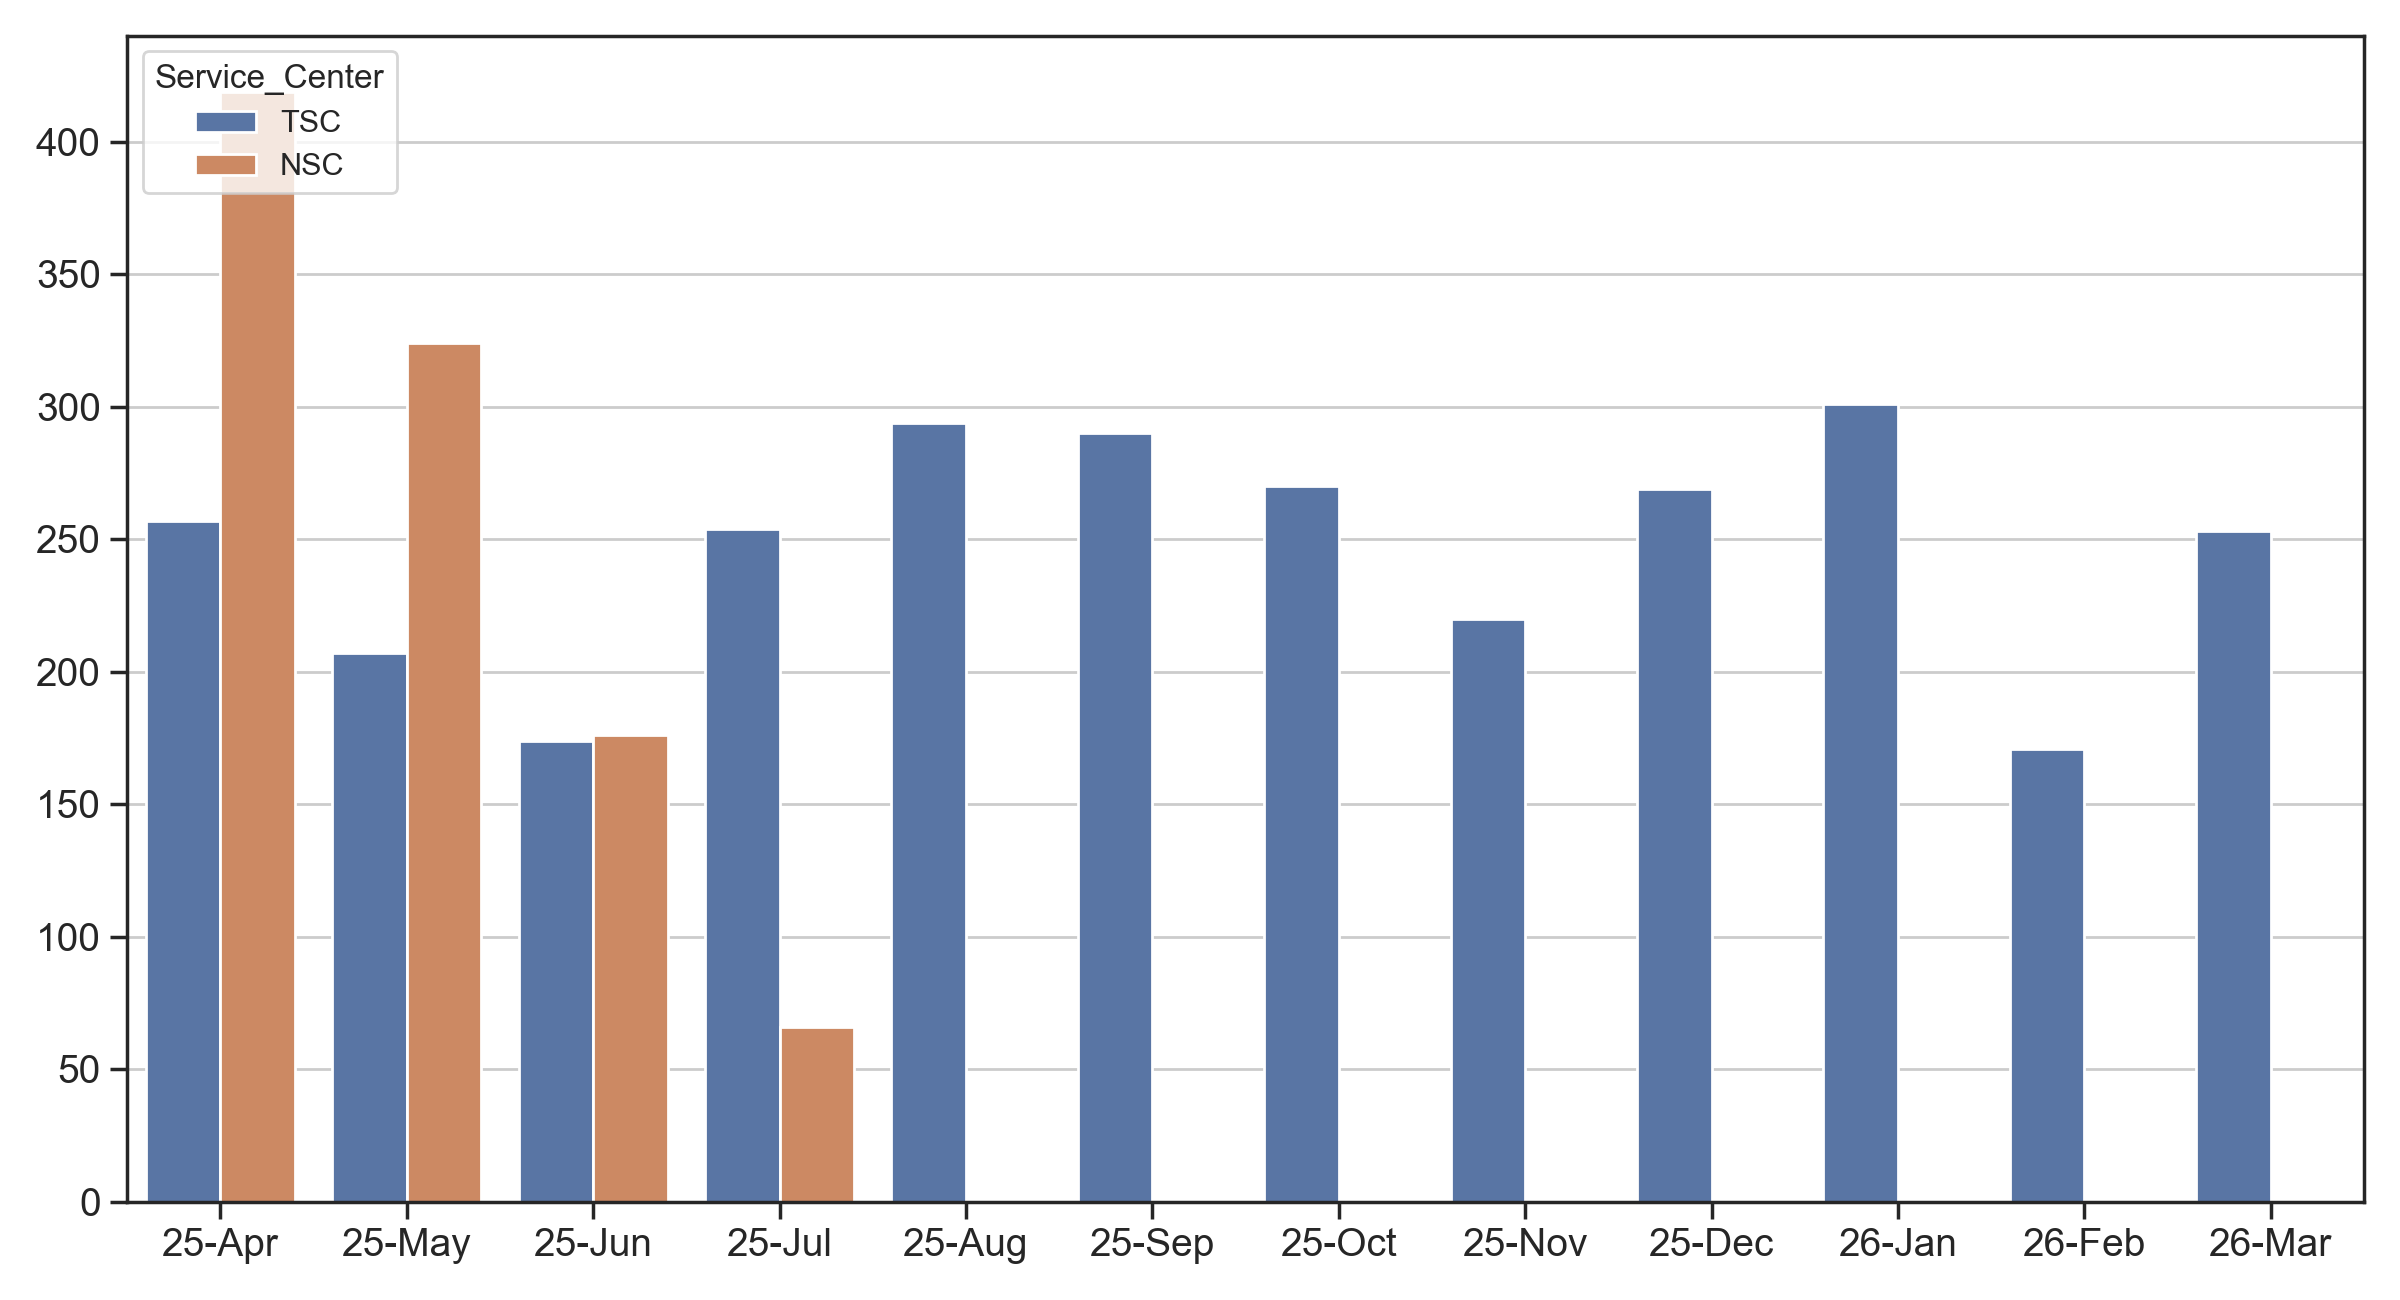
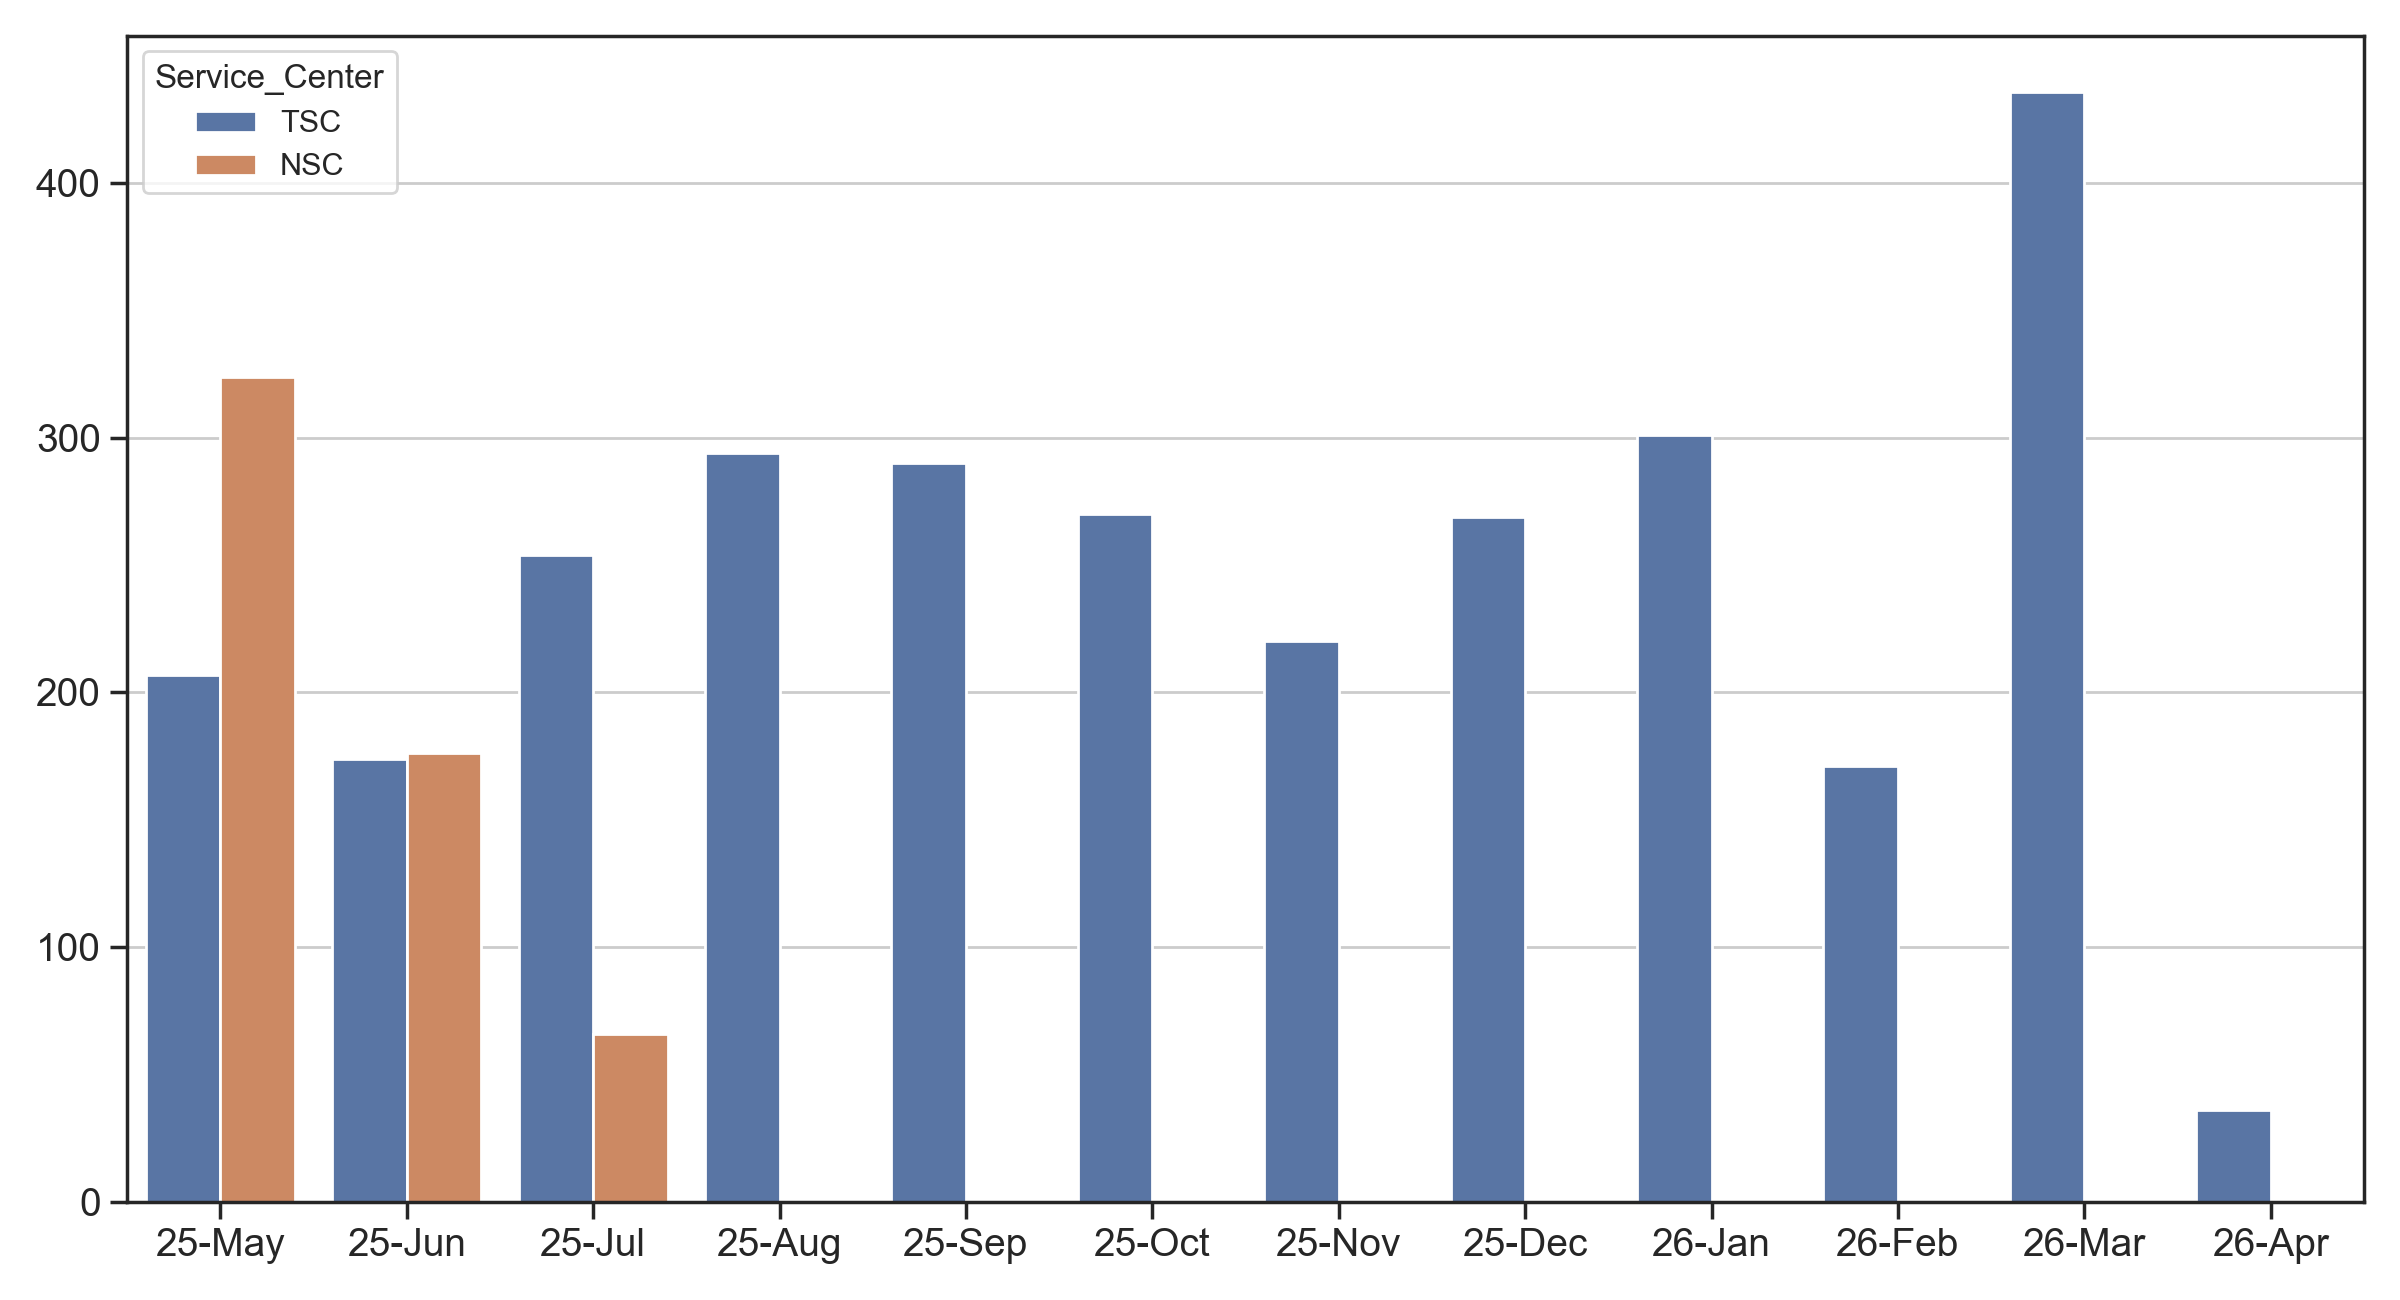
Apr-19 update

diff --git a/README.md b/README.md
@@ -1,4 +1,4 @@
-## National Interest Waiver Wait Time, updated Apr-07-2026 
+## National Interest Waiver Wait Time, updated Apr-19-2026 
 * sec203(b)(2), Indiv w/Adv Deg or Exceptional Ability in National Interest are counted as NIW cases from now on. 
  
 USCIS Employment-based-2 NIW I-140 wait time before approval (data source: [Victoria Chen](https://www.wegreened.com/eb1_niw_approvals)). 